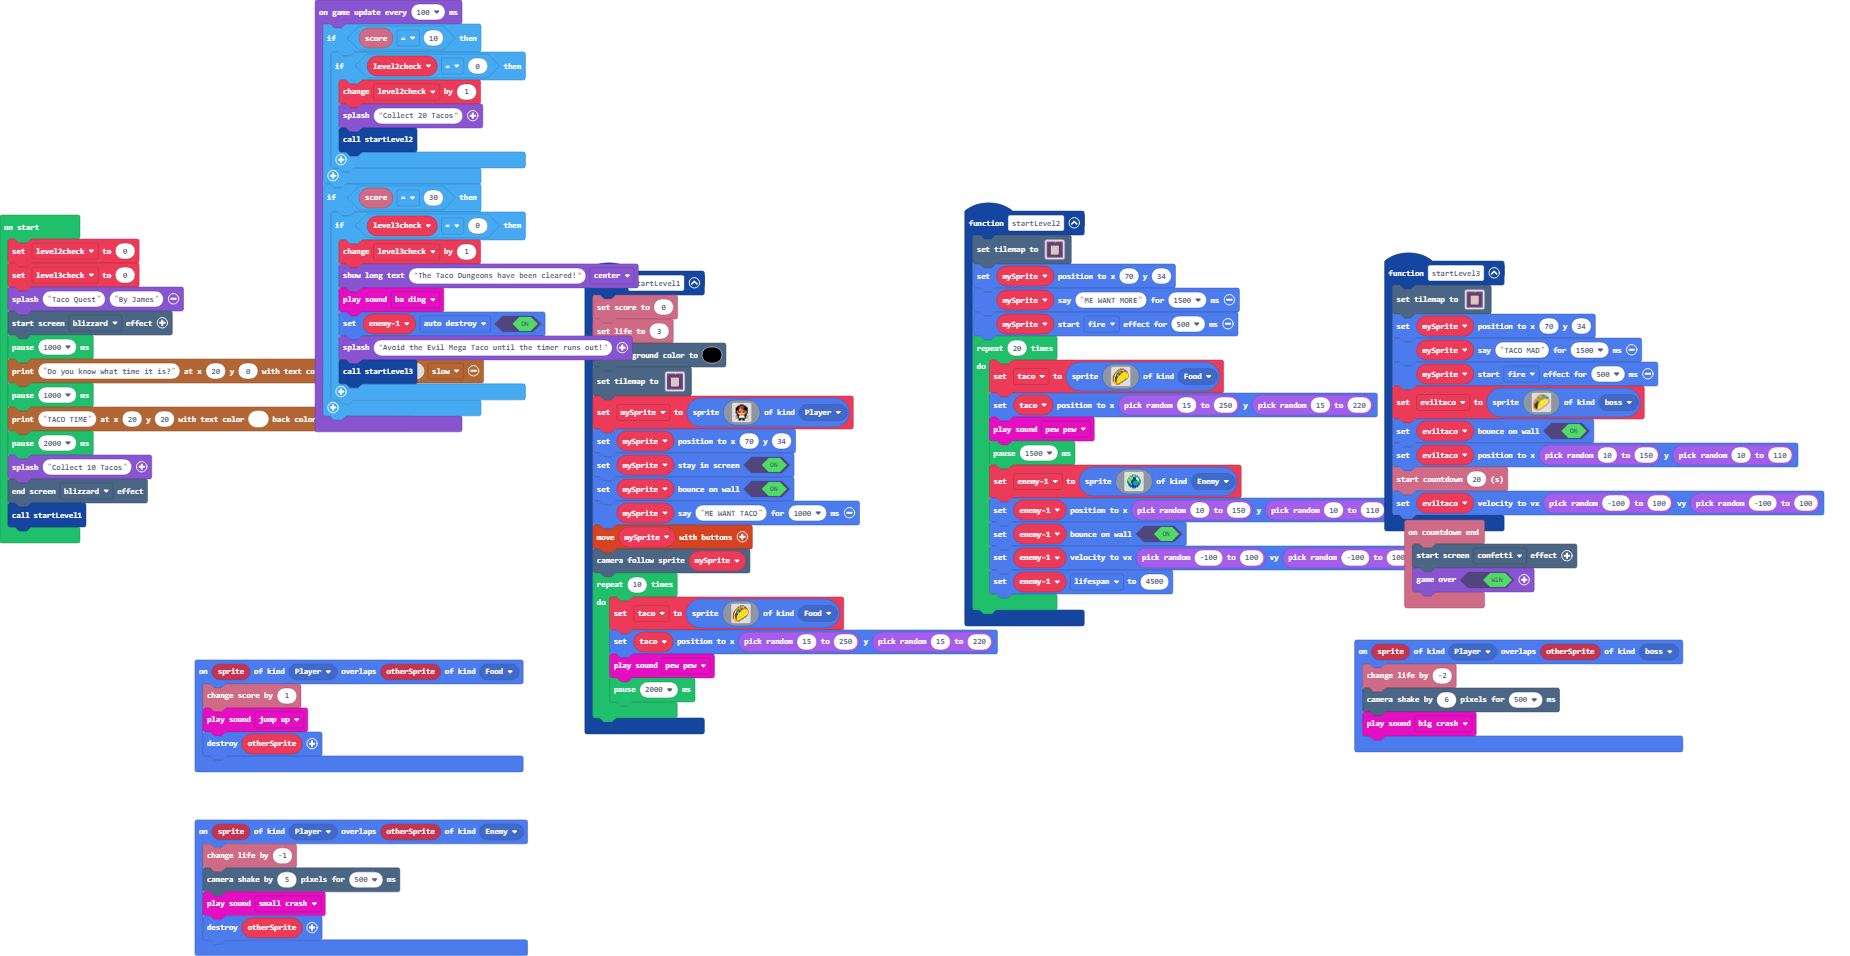
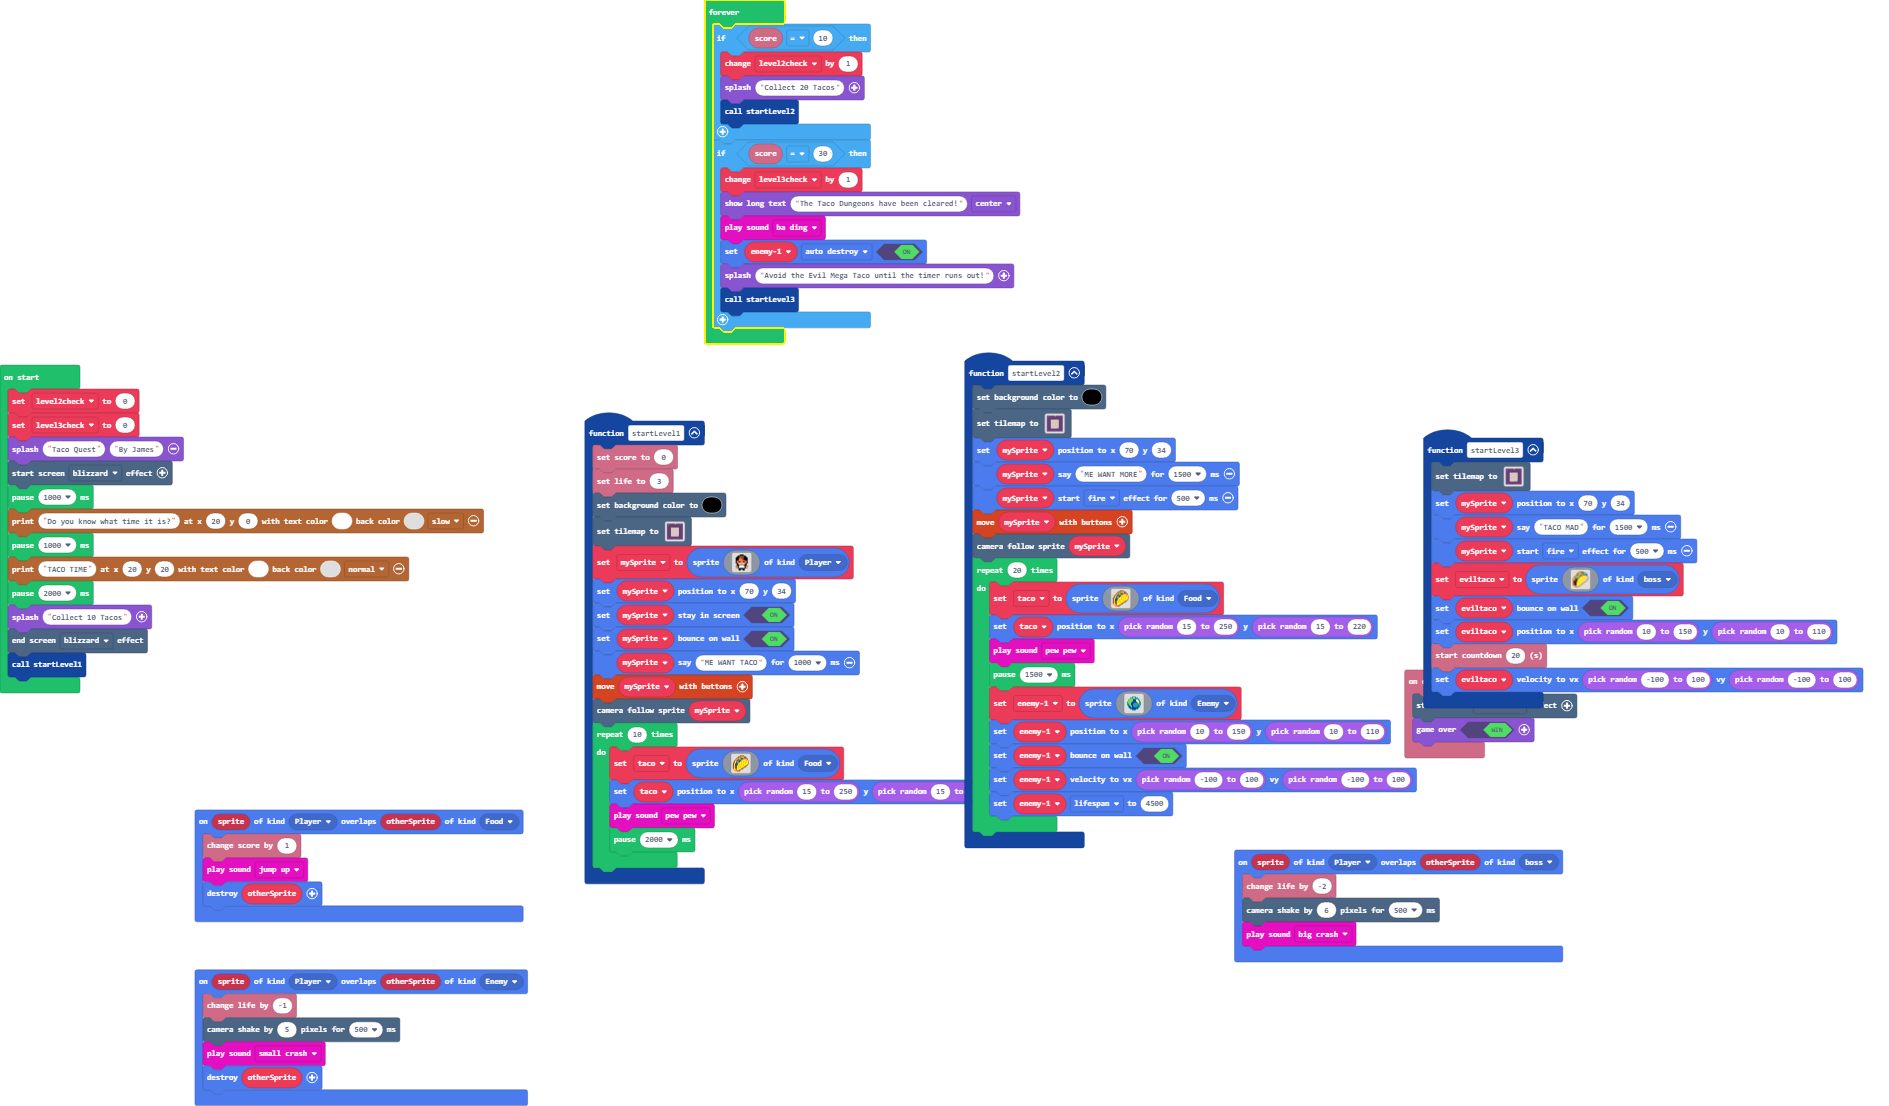
finally got the level transition fucking working

diff --git a/main.ts b/main.ts
@@ -64,10 +64,13 @@ info.onCountdownEnd(function () {
     game.over(true)
 })
 function startLevel2 () {
+    scene.setBackgroundColor(15)
     tiles.setTilemap(tilemap`level1`)
     mySprite.setPosition(70, 34)
     mySprite.say("ME WANT MORE", 1500)
     mySprite.startEffect(effects.fire, 500)
+    controller.moveSprite(mySprite)
+    scene.cameraFollowSprite(mySprite)
     for (let index = 0; index < 20; index++) {
         taco = sprites.create(img`
             . . . . . . . e e e e . . . . . 
@@ -185,22 +188,18 @@ pause(2000)
 game.splash("Collect 10 Tacos")
 effects.blizzard.endScreenEffect()
 startLevel1()
-game.onUpdateInterval(100, function () {
+forever(function () {
     if (info.score() == 10) {
-        if (level2check == 0) {
-            level2check += 1
-            game.splash("Collect 20 Tacos")
-            startLevel2()
-        }
+        level2check += 1
+        game.splash("Collect 20 Tacos")
+        startLevel2()
     }
     if (info.score() == 30) {
-        if (level3check == 0) {
-            level3check += 1
-            game.showLongText("The Taco Dungeons have been cleared!", DialogLayout.Center)
-            music.baDing.play()
-            enemy1.setFlag(SpriteFlag.AutoDestroy, true)
-            game.splash("Avoid the Evil Mega Taco until the timer runs out!")
-            startLevel3()
-        }
+        level3check += 1
+        game.showLongText("The Taco Dungeons have been cleared!", DialogLayout.Center)
+        music.baDing.play()
+        enemy1.setFlag(SpriteFlag.AutoDestroy, true)
+        game.splash("Avoid the Evil Mega Taco until the timer runs out!")
+        startLevel3()
     }
 })
